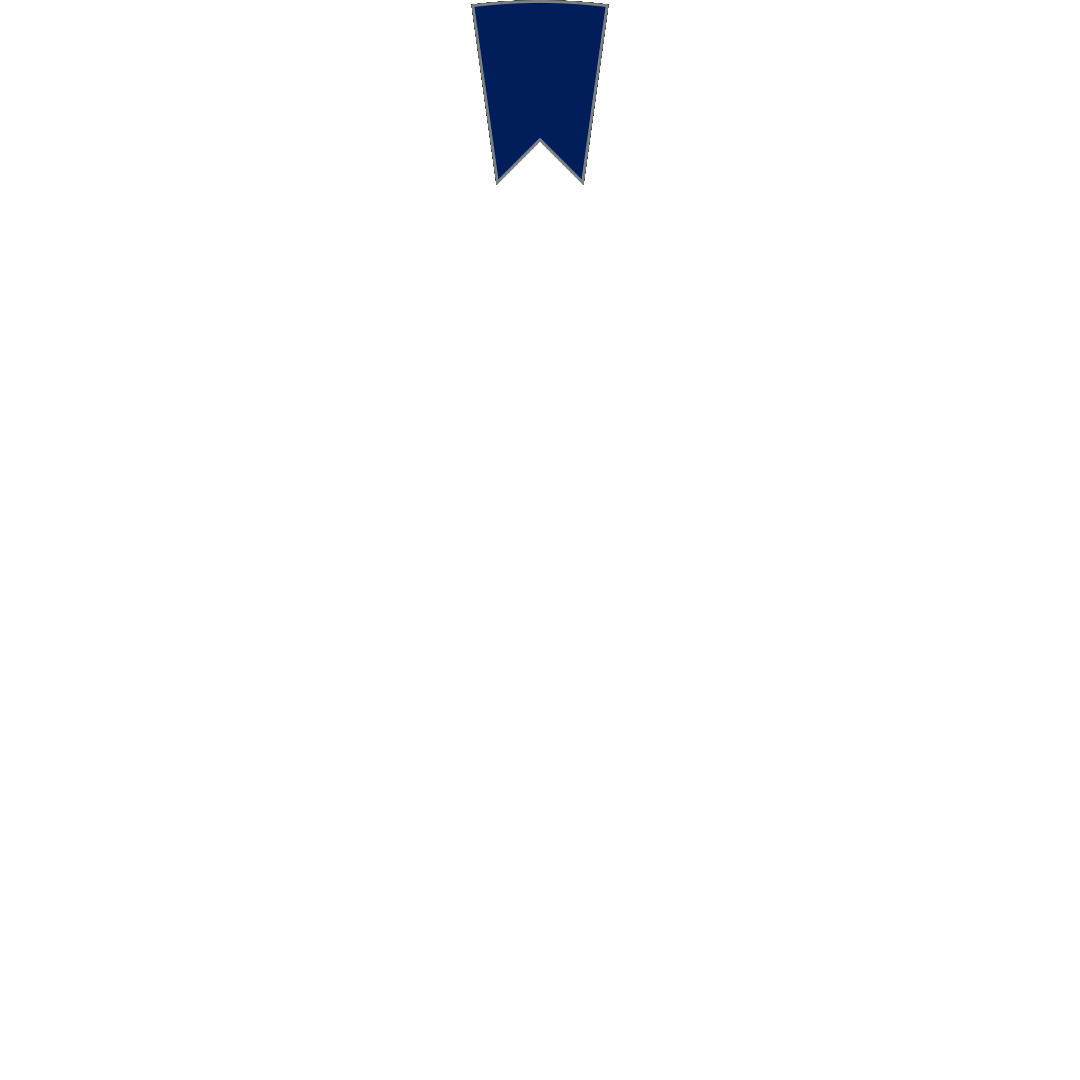
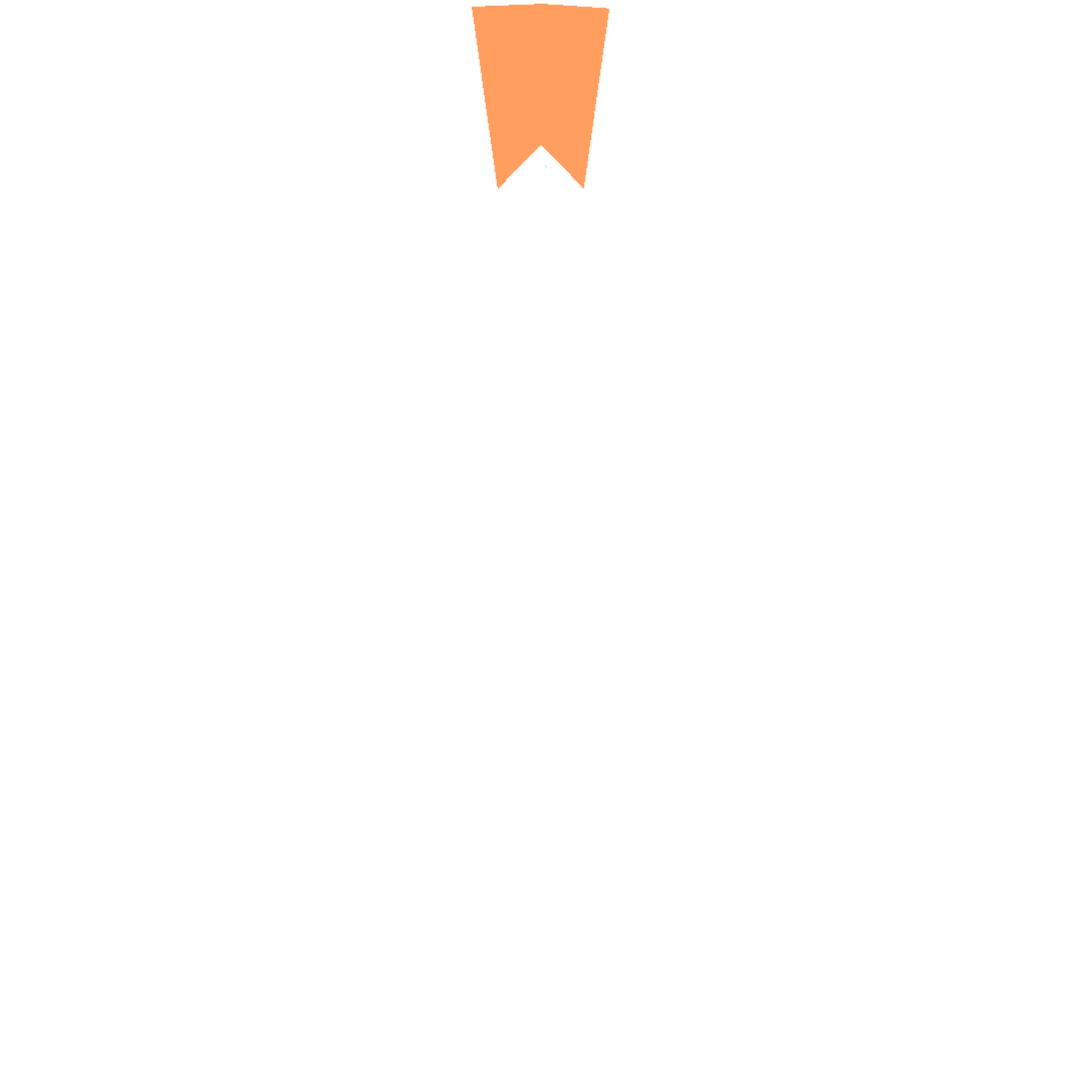
feat!: 分区图不再使用灰色底

Changed region(s): [[0.4278, 0.0, 0.5806, 0.1833]]

diff --git a/window_ui.py b/window_ui.py
@@ -57,7 +57,7 @@ class MainUI:
         # ---
         self.sensor_frame.grid(row=5, sticky="NSEW")
         self.display_area.grid_rowconfigure(5, weight=1)
-        self.sensor_canvas = Canvas(self.sensor_frame, width=canvas_size, height=canvas_size, background='grey')
+        self.sensor_canvas = Canvas(self.sensor_frame, width=canvas_size, height=canvas_size) # background='grey'
         self.sensor_canvas.pack(anchor=S, expand=1)
         self.SENSOR_PIC = ImageTk.PhotoImage(Image.open("images/sensor.png").resize((canvas_size,)*2))
         self.sensor_canvas.create_image(canvas_size/2, canvas_size/2, image=self.SENSOR_PIC)
@@ -152,7 +152,10 @@ class MainUI:
     def exiting(self):
         self.stop_draw_text = 1
         self.stop_draw_touch = 1
-        stop_get_touch_info()
+        try:
+            stop_get_touch_info()
+        except Exception:
+            pass
         sys.exit()
 
 class CanvasHandler:

diff --git a/draw.py b/draw.py
@@ -23,9 +23,9 @@ def draw_text():
     draw = ImageDraw.Draw(sensor_name_stat)
     raw_readings = combine_raw_and_sense_adjust(get_sensor_raw_readings(), get_sensor_sense_adjust()) if SHOW_SENSE_ADJUST else get_sensor_raw_readings()
     for title, pos in area_title_position.items():
-        draw.text(pos, title, font=CANVAS_FONT_SET[0])
+        draw.text(pos, title, font=CANVAS_FONT_SET[0], fill="#000")
     for subtitl, pos in zip(raw_readings, area_subtitl_position.values()):
-        draw.text(pos, subtitl, font=CANVAS_FONT_SET[1])
+        draw.text(pos, subtitl, font=CANVAS_FONT_SET[1], fill="#000")
     return sensor_name_stat.resize((canvas_size,) * 2)
 
 def draw_touch():
